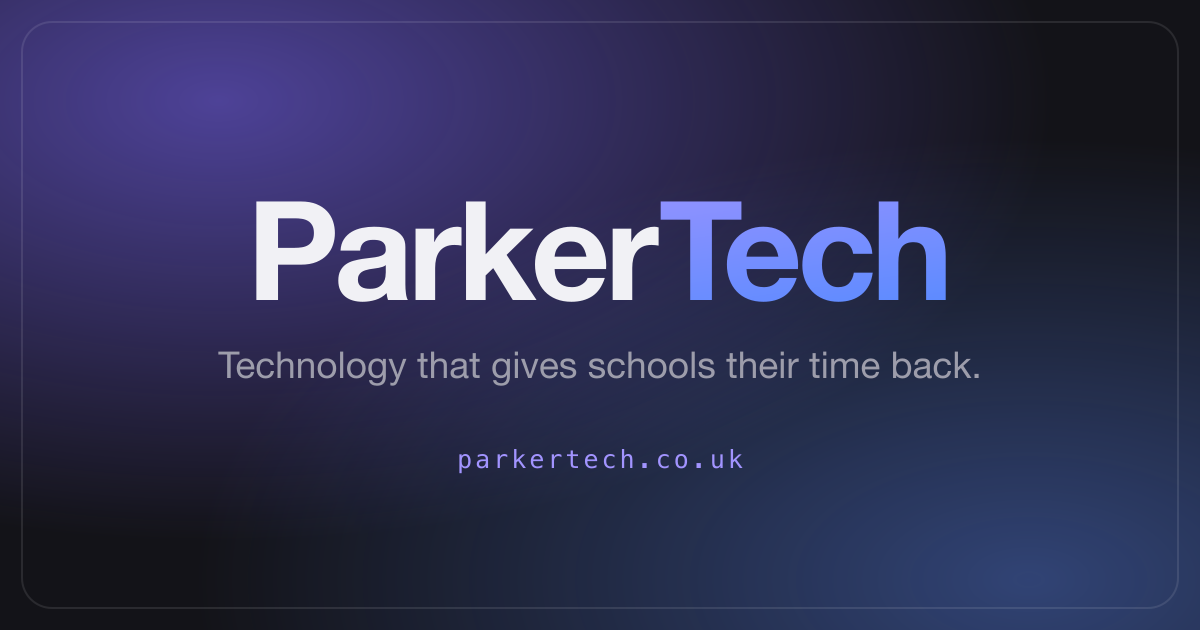
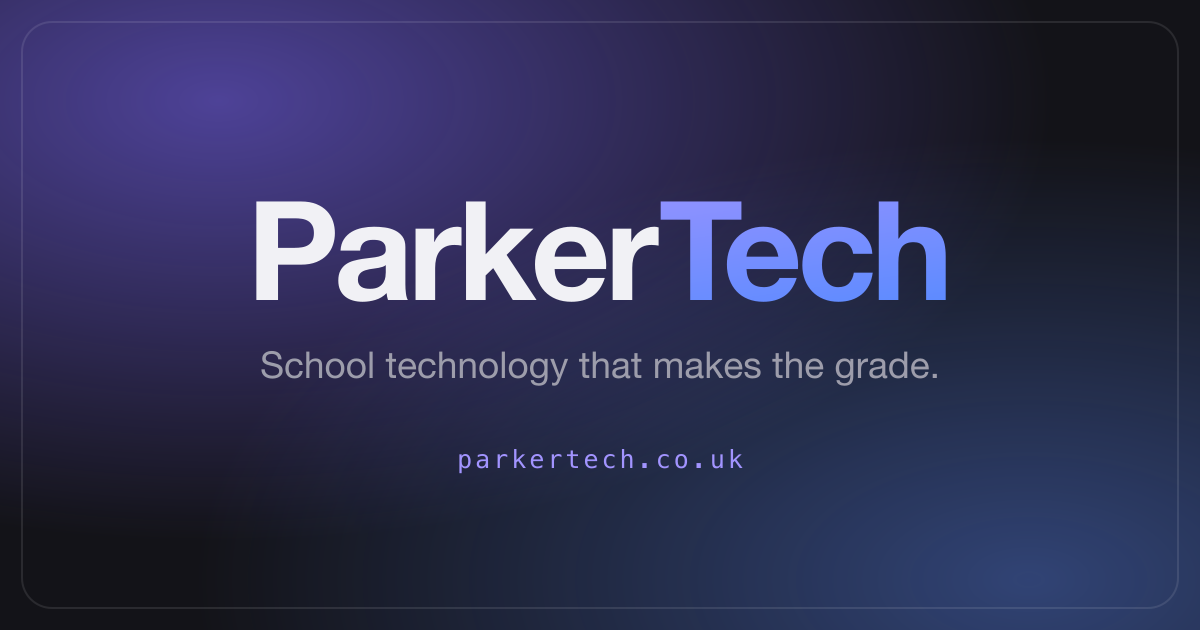
Reword the hero headline
New headline: "School technology that makes the grade." — leads on
the solution with an education-domain idiom. Updates the OG share
image to carry the same line.

Changed region(s): [[0.185, 0.5429, 0.8325, 0.6333]]

diff --git a/src/data/site.ts b/src/data/site.ts
@@ -34,8 +34,8 @@ export const site = {
   /* ── Hero section ─────────────────────────────────────────── */
   hero: {
     // The headline renders as:  {titleLead} {titleAccent in colour} {titleTail}
-    titleLead: 'Technology that gives schools',
-    titleAccent: 'their time back.',
+    titleLead: 'School technology that',
+    titleAccent: 'makes the grade.',
     titleTail: '',
     subtext:
       "I'm Joseph — a developer and former teacher with a decade in the classroom. ParkerTech is where I build practical software for schools, and a place to see what's possible when the person writing the code has actually done the job.",